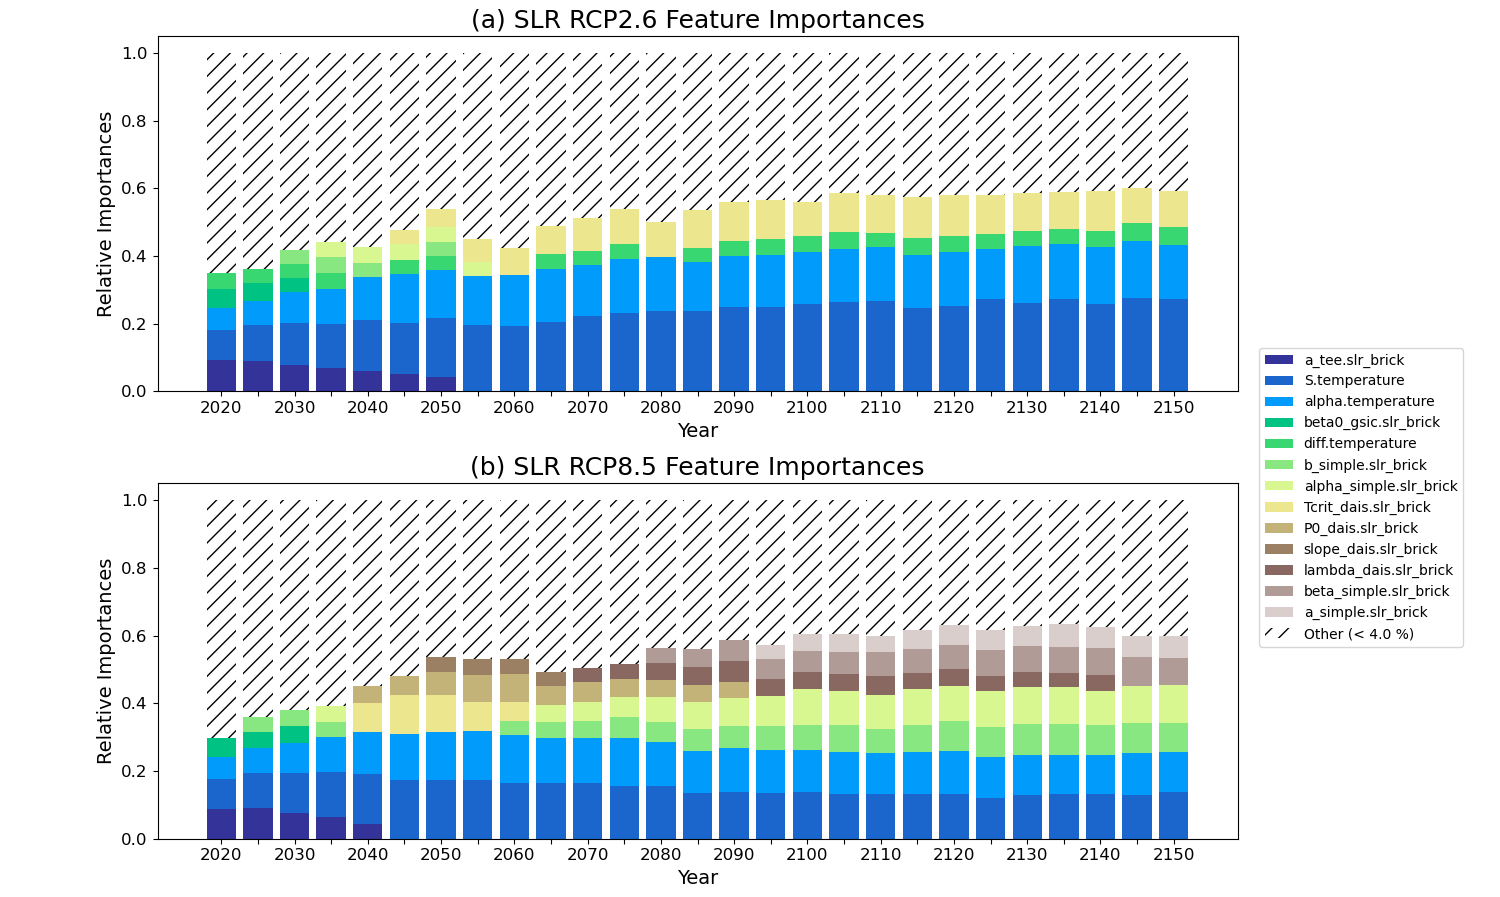
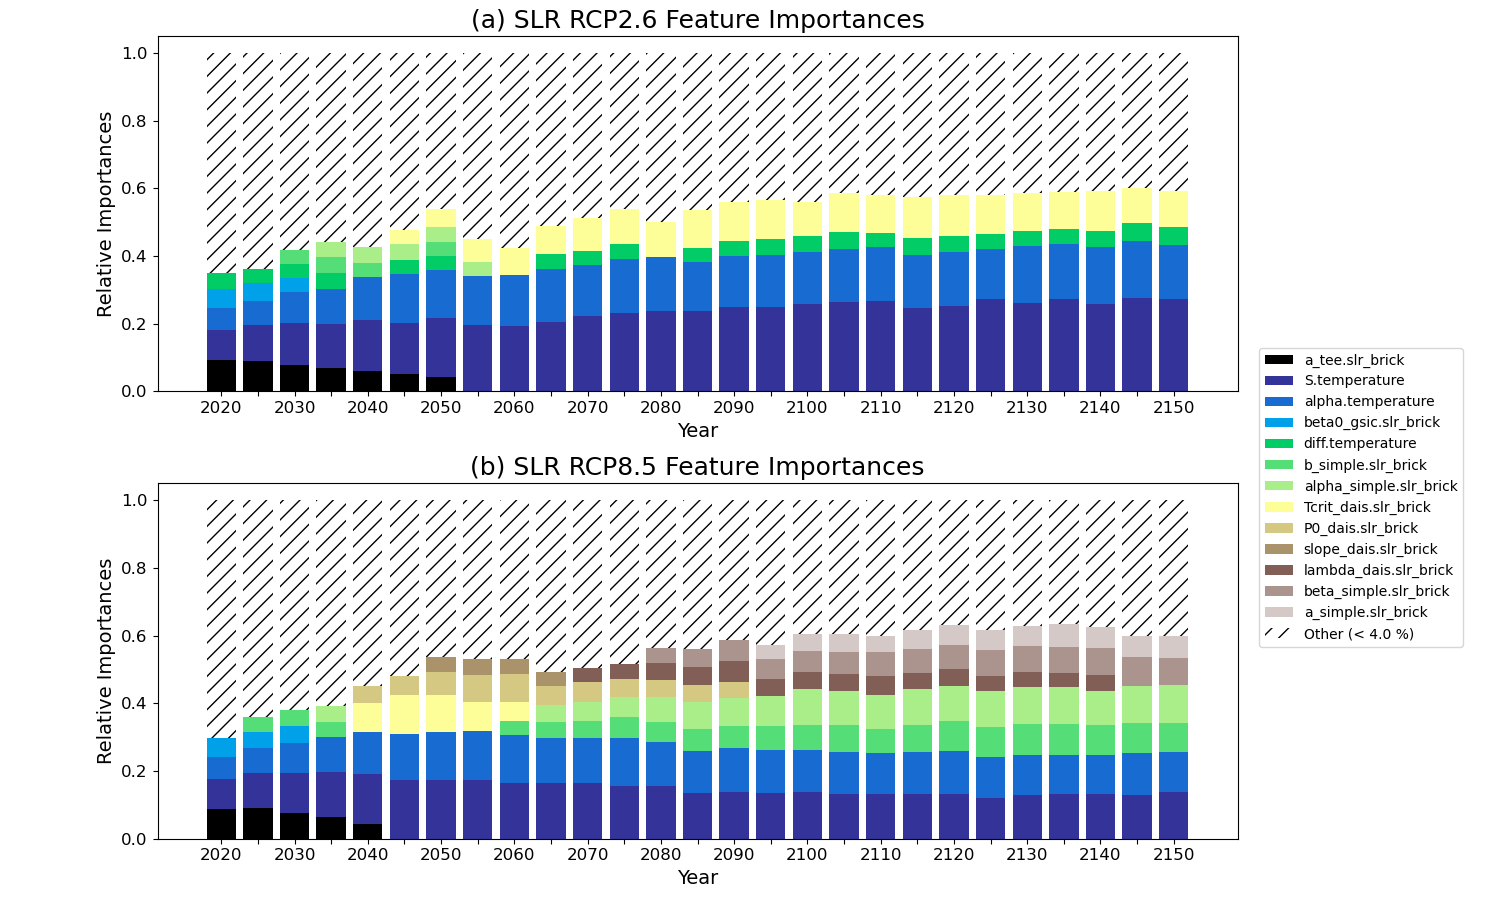
updated importances plots- colors & hatching

Changed region(s): [[0.1227, 0.2497, 0.7973, 0.437], [0.1227, 0.7492, 0.7973, 0.9365], [0.828, 0.3746, 0.8587, 0.5619]]

diff --git a/python_code/sklearn_slr_classification.py b/python_code/sklearn_slr_classification.py
@@ -452,8 +452,9 @@ def feature_color_dict(features_list):
     """
     color_map = pylab.get_cmap('terrain')
     color_dict = {}
-    for i in range(len(features_list)):
-        color = color_map(i/len(features_list))
+    color_dict[features_list[0]] = "black"
+    for i in range(1, len(features_list)):
+        color = color_map((i - 1) / (len(features_list) - 1))
         color_dict[features_list[i]] = color
     return color_dict
 
@@ -525,6 +526,23 @@ def slr_stacked_importances_plot(param_sample_df, rcp26_forest_list, rcp85_fores
                 features_on_plot.append(feature)
     color_dict = feature_color_dict(features_on_plot)
 
+    # set up alternating hatching
+    len_plot_features_even = len(features_on_plot) % 2 == 0     # length doesn't include "other" category
+    hatch_dict = {}
+    idx = 0
+    for feature in color_dict:
+        if len_plot_features_even:
+            if idx % 2 == 0:
+                hatch_dict[feature] = "//"
+            else:
+                hatch_dict[feature] = ""
+        else:
+            if idx % 2 == 1:
+                hatch_dict[feature] = "//"
+            else:
+                hatch_dict[feature] = ""
+        idx += 1
+
     # plotting
     fig, axs = plt.subplots(2, 1)
     handles = []
@@ -540,12 +558,13 @@ def slr_stacked_importances_plot(param_sample_df, rcp26_forest_list, rcp85_fores
             else:
                 color = color_dict[feature]
                 if bottom is None:
-                    axs[i].bar(x, importances_info[feature], label=feature, color=color)
+                    axs[i].bar(x, importances_info[feature], label=feature, color=color, hatch=hatch_dict[feature])
                     bottom = np.array(importances_info[feature])
                 else:
-                    axs[i].bar(x, importances_info[feature], bottom=bottom, label=feature, color=color)
+                    axs[i].bar(x, importances_info[feature], bottom=bottom, label=feature, color=color,
+                               hatch=hatch_dict[feature])
                     bottom += np.array(importances_info[feature])
-        percent_label = "Other (< " + str(importance_threshold*100) + " %)"
+        percent_label = "Other (< " + str(round(importance_threshold*100, 1)) + " %)"
         axs[i].bar(x, importances_info["Other"], bottom=bottom, label=percent_label, color='white',
                    hatch='//')
         axs[i].set_ylabel("Relative Importances", fontsize=14)
@@ -962,8 +981,8 @@ if __name__ == '__main__':
 
     rcp26_forest_list = load_forests(yrs_rcp26, "rcp26")
     rcp85_forest_list = load_forests(yrs_rcp85, "rcp85")
-    #slr_stacked_importances_plot(df, rcp26_forest_list, rcp85_forest_list, yrs_rcp26, importance_threshold=.02)
-    all_Stemp_max_split_boxplots(list_10_yrs)
+    slr_stacked_importances_plot(df, rcp26_forest_list, rcp85_forest_list, yrs_rcp26, importance_threshold=.03)
+    #all_Stemp_max_split_boxplots(list_10_yrs)
     #all_Stemp_max_split_histograms([2025, 2050, 2075, 2100, 2125, 2150])
 
     #forest_rcp85_2020 = rcp85_forest_list_10yrs[0]
